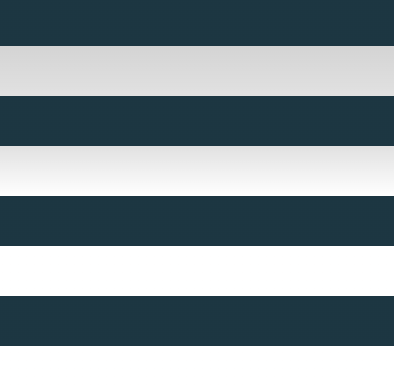
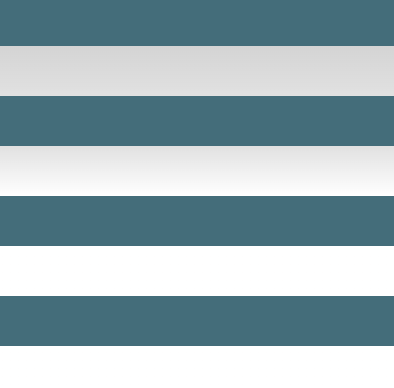
thumbnail hovers

diff --git a/js/projects.js b/js/projects.js
@@ -105,12 +105,14 @@ function project_page(path){
             <div class="col-12 project-container">
                 <div class="left">
                     <header>
+                        <a href="/" style="text-decoration: none">
                         <div style="display: flex; align-items: center;">
                             <div style="margin-right: 10px; width:30px"><img src="/images/logo.svg"></div>
                             <div style="flex: 1;">
                                 <h6 style="margin-bottom:0px">LANNEC STUDIO</h6>
                             </div>
                         </div>
+                        </a>
                     </header>
                     <br>
                     <br>
@@ -133,9 +135,15 @@ function project_page(path){
                     <br>
                     <br>
                     <div style="display: flex;">
-                        <a href="/progetti-pubblici"><img src="/images/thumbnail-3.png" class="thumbnail" alt=""></a>
-                        <a href="/gare"><img src="/images/thumbnail-2.png" class="thumbnail" alt=""></a>
-                        <a href="/progetti-privati"><img src="/images/thumbnail-1.png" class="thumbnail" alt=""></a>
+                        <a href="/progetti-pubblici">
+                            <img src="/images/thumbnail-3.png" class="thumbnail" id="thumbnail-image-3" alt="">
+                        </a>
+                        <a href="/gare">
+                            <img src="/images/thumbnail-2.png" class="thumbnail" id="thumbnail-image-2" alt="">
+                        </a>
+                        <a href="/progetti-privati">
+                            <img src="/images/thumbnail-1.png" class="thumbnail" id="thumbnail-image-1" alt="">
+                        </a>
                     </div>
                 </div>
                 <div class="middle">

diff --git a/css/style.css b/css/style.css
@@ -453,7 +453,20 @@ h6{
     width: 40px;
     border: 0.3px solid #123743;
     margin-right: 10px;
+    transition: all 0.3s ease; /* Smooth transition */
+    border-radius: 2px;
 }
+
+#thumbnail-image-1:hover {
+    content: url("/images/thumbnail-1-hover.png");
+}
+#thumbnail-image-2:hover {
+    content: url("/images/thumbnail-2-hover.png");
+}
+#thumbnail-image-3:hover {
+    content: url("/images/thumbnail-3-hover.png");
+}
+
 
 img {
     border-radius: 4px;
